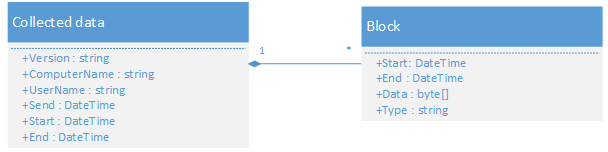
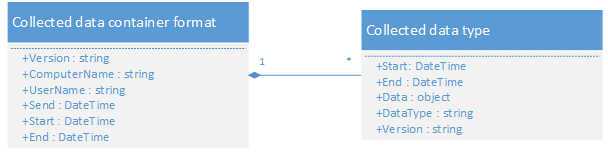
Add keystrokes diagram

diff --git a/R1/Functional/Collected data format/collected data format.md b/R1/Functional/Collected data format/collected data format.md
@@ -8,4 +8,9 @@ The container format encapsulates any collected data type.
 
 ## Collected data type
 
+The container support any collected data type.
+The collected data is recorded in *Data* field (see *Collected data type* class)
+
 ### Keystrokes
+
+![Container data structure](diagrams/UML - Keystrokes structure.png)
